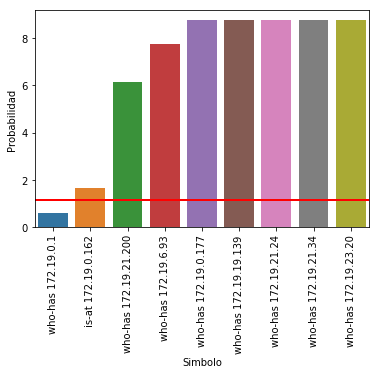
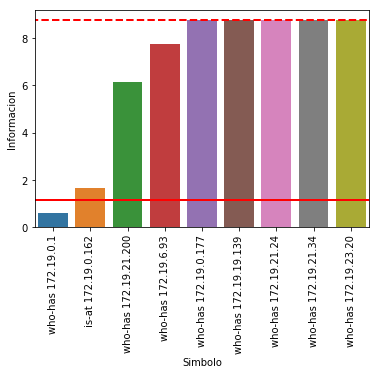
Mejorar graficos y conclus

Changed region(s): [[0.0868, 0.0294, 0.9553, 0.0588], [0.0, 0.2353, 0.0579, 0.4118]]

diff --git a/informe/conclusion.tex b/informe/conclusion.tex
@@ -2,7 +2,7 @@
 
 Un análisis interesante se origina al comparar las diferentes redes, las cuales tienen diferentes tecnologías subyacentes, y cómo esto afecta notoriamente a las fuentes de información estudiadas. Otro factor que afecta a las fuentes es el uso que se le da a la red, por ejemplo como el incremento de la actividad interna de la red aumenta la proporción de paquetes ARP dentro de la muestra, visto en la red empresarial. Sorprende la cantidad de paquetes que el usuario no percibe ya que son para el mantenimiento de la red.
 
-Mediante el cálculo de la entropía podemos determinar que tan predecible es una red, a menor entropía es más fácil predecir.
+Mediante el cálculo de la entropía podemos determinar que tan predecible es una red, a menor entropía es más fácil predecir. Al analizar los paquetes confirmamos lo que esperábamos: las redes más grandes son menos predecibles, sobre todo cuando tenemos en cuenta que una red grande (y en particular una corporativa) tiene mayor tendencia a incluir interacción entre los hosts de la red.
 
 Otra de las conclusiones de este trabajo es que mientras más grande la red, más \texttt{ARP BROADCAST} podremos percibir, debido a que se requieren mas paquetes de control para mantener el estado de la red en actualizado en cada nodo.
 
@@ -10,7 +10,7 @@ Dejando de lado el análisis de la topología de la red por un momento, resulta 
 
 Las zonas de colisión también juegan un factor importante en la recolección de datos ya que tendremos otra posibilidad de observar los paquetes que realmente viajan por la red. Este rasgo también se pudo evidenciar en los distintos análisis de las fuentes, al comparar los paquetes unicast contra los broadcast.
 
-Nuestro modelos de análisis no es muy acertado, usamos fuentes de memoria nula cuando en realidad sabemos que, por ejemplo, captar la circulación de un paquete IS-AT es más probable si ya captamos un WHO-HAS. Sería interesante analizar cuales serian los resultados si tuviésemos en cuenta paquetes anteriores para determinar la probabilidad de uno nuevo.
+Sin embargo, debemos concluir que las fuentes de información modeladas no son las más adecuadas. Las mismas son fuentes de memoria nula cuando en realidad sabemos que, por ejemplo, captar la circulación de un paquete \texttt{IS-AT} es más probable si ya captamos un \texttt{WHO-HAS}. Sería interesante analizar cuales serian los resultados si tuviésemos en cuenta paquetes anteriores para determinar la probabilidad de uno nuevo.
 
 Otras herramientas estadísticas como la moda de la muestra podrían ser útiles para encontrar símbolos distinguidos, sobre todo para la segunda fuente.
 
